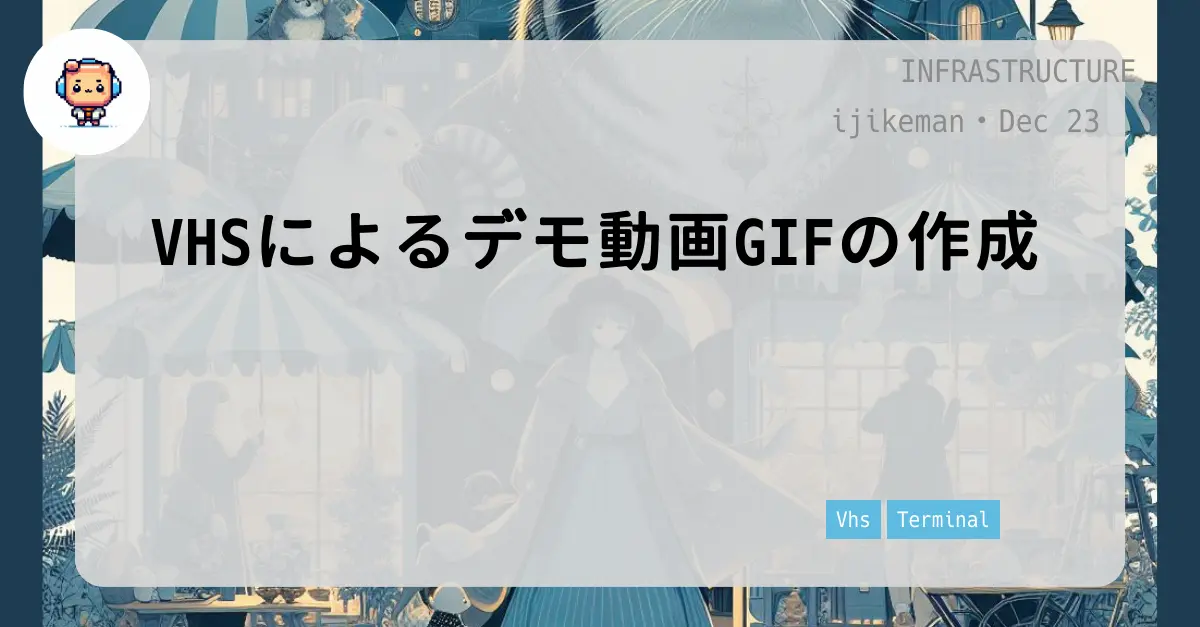
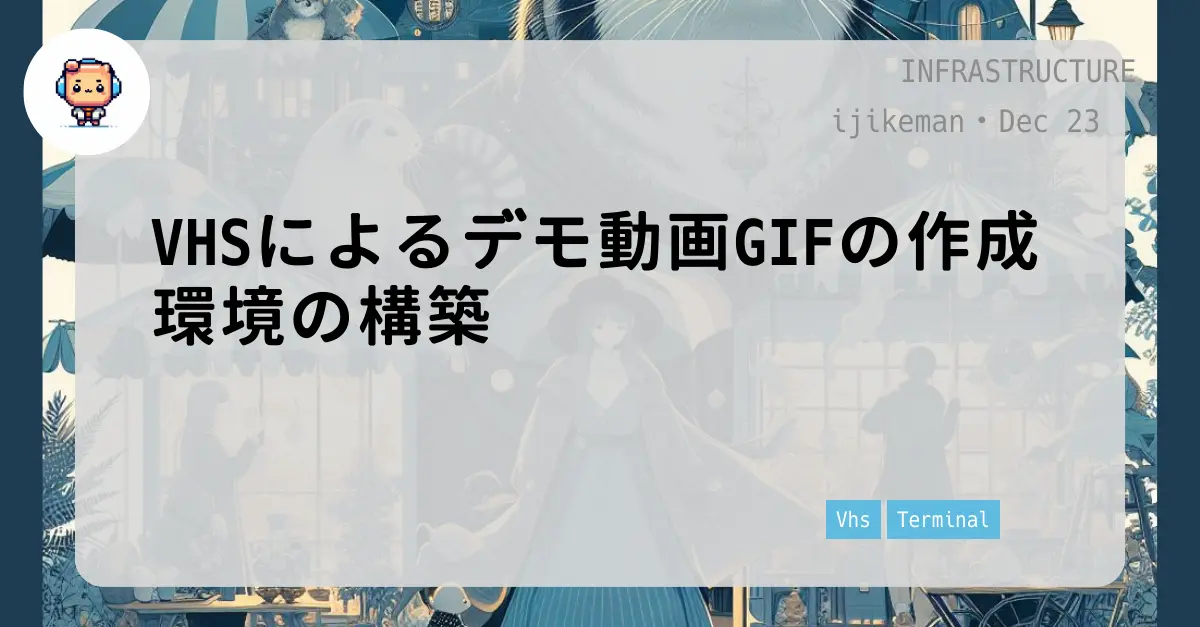
fixed

Changed region(s): [[0.1233, 0.4545, 0.4317, 0.5455]]

diff --git a/content/posts/vhs/config/index.md b/content/posts/vhs/config/index.md
@@ -19,6 +19,10 @@ cover:
 * .tapeファイルに出力設定を行う
 * .tapeファイルを実行する
 
+# 概要
+[前回の記事](/posts/vhs/install/)でVHSのセットアップを行いましたので、実際に設定ファイルを作成し
+ターミナル操作動画を作成していきます。
+
 ### vhsの簡単な使い方
 1. tapeファイルテンプレートの作成
 

diff --git a/content/posts/vhs/install/index.md b/content/posts/vhs/install/index.md
@@ -2,7 +2,7 @@
 author: "ijikeman"
 showToc: true
 TocOpen: true
-title: "VHSによるデモ動画GIFの作成"
+title: "VHSによるデモ動画GIFの作成環境の構築"
 date: 2025-12-23T5:00:00+09:00
 # weight: 1
 aliases: ["/vhsy/install"]
